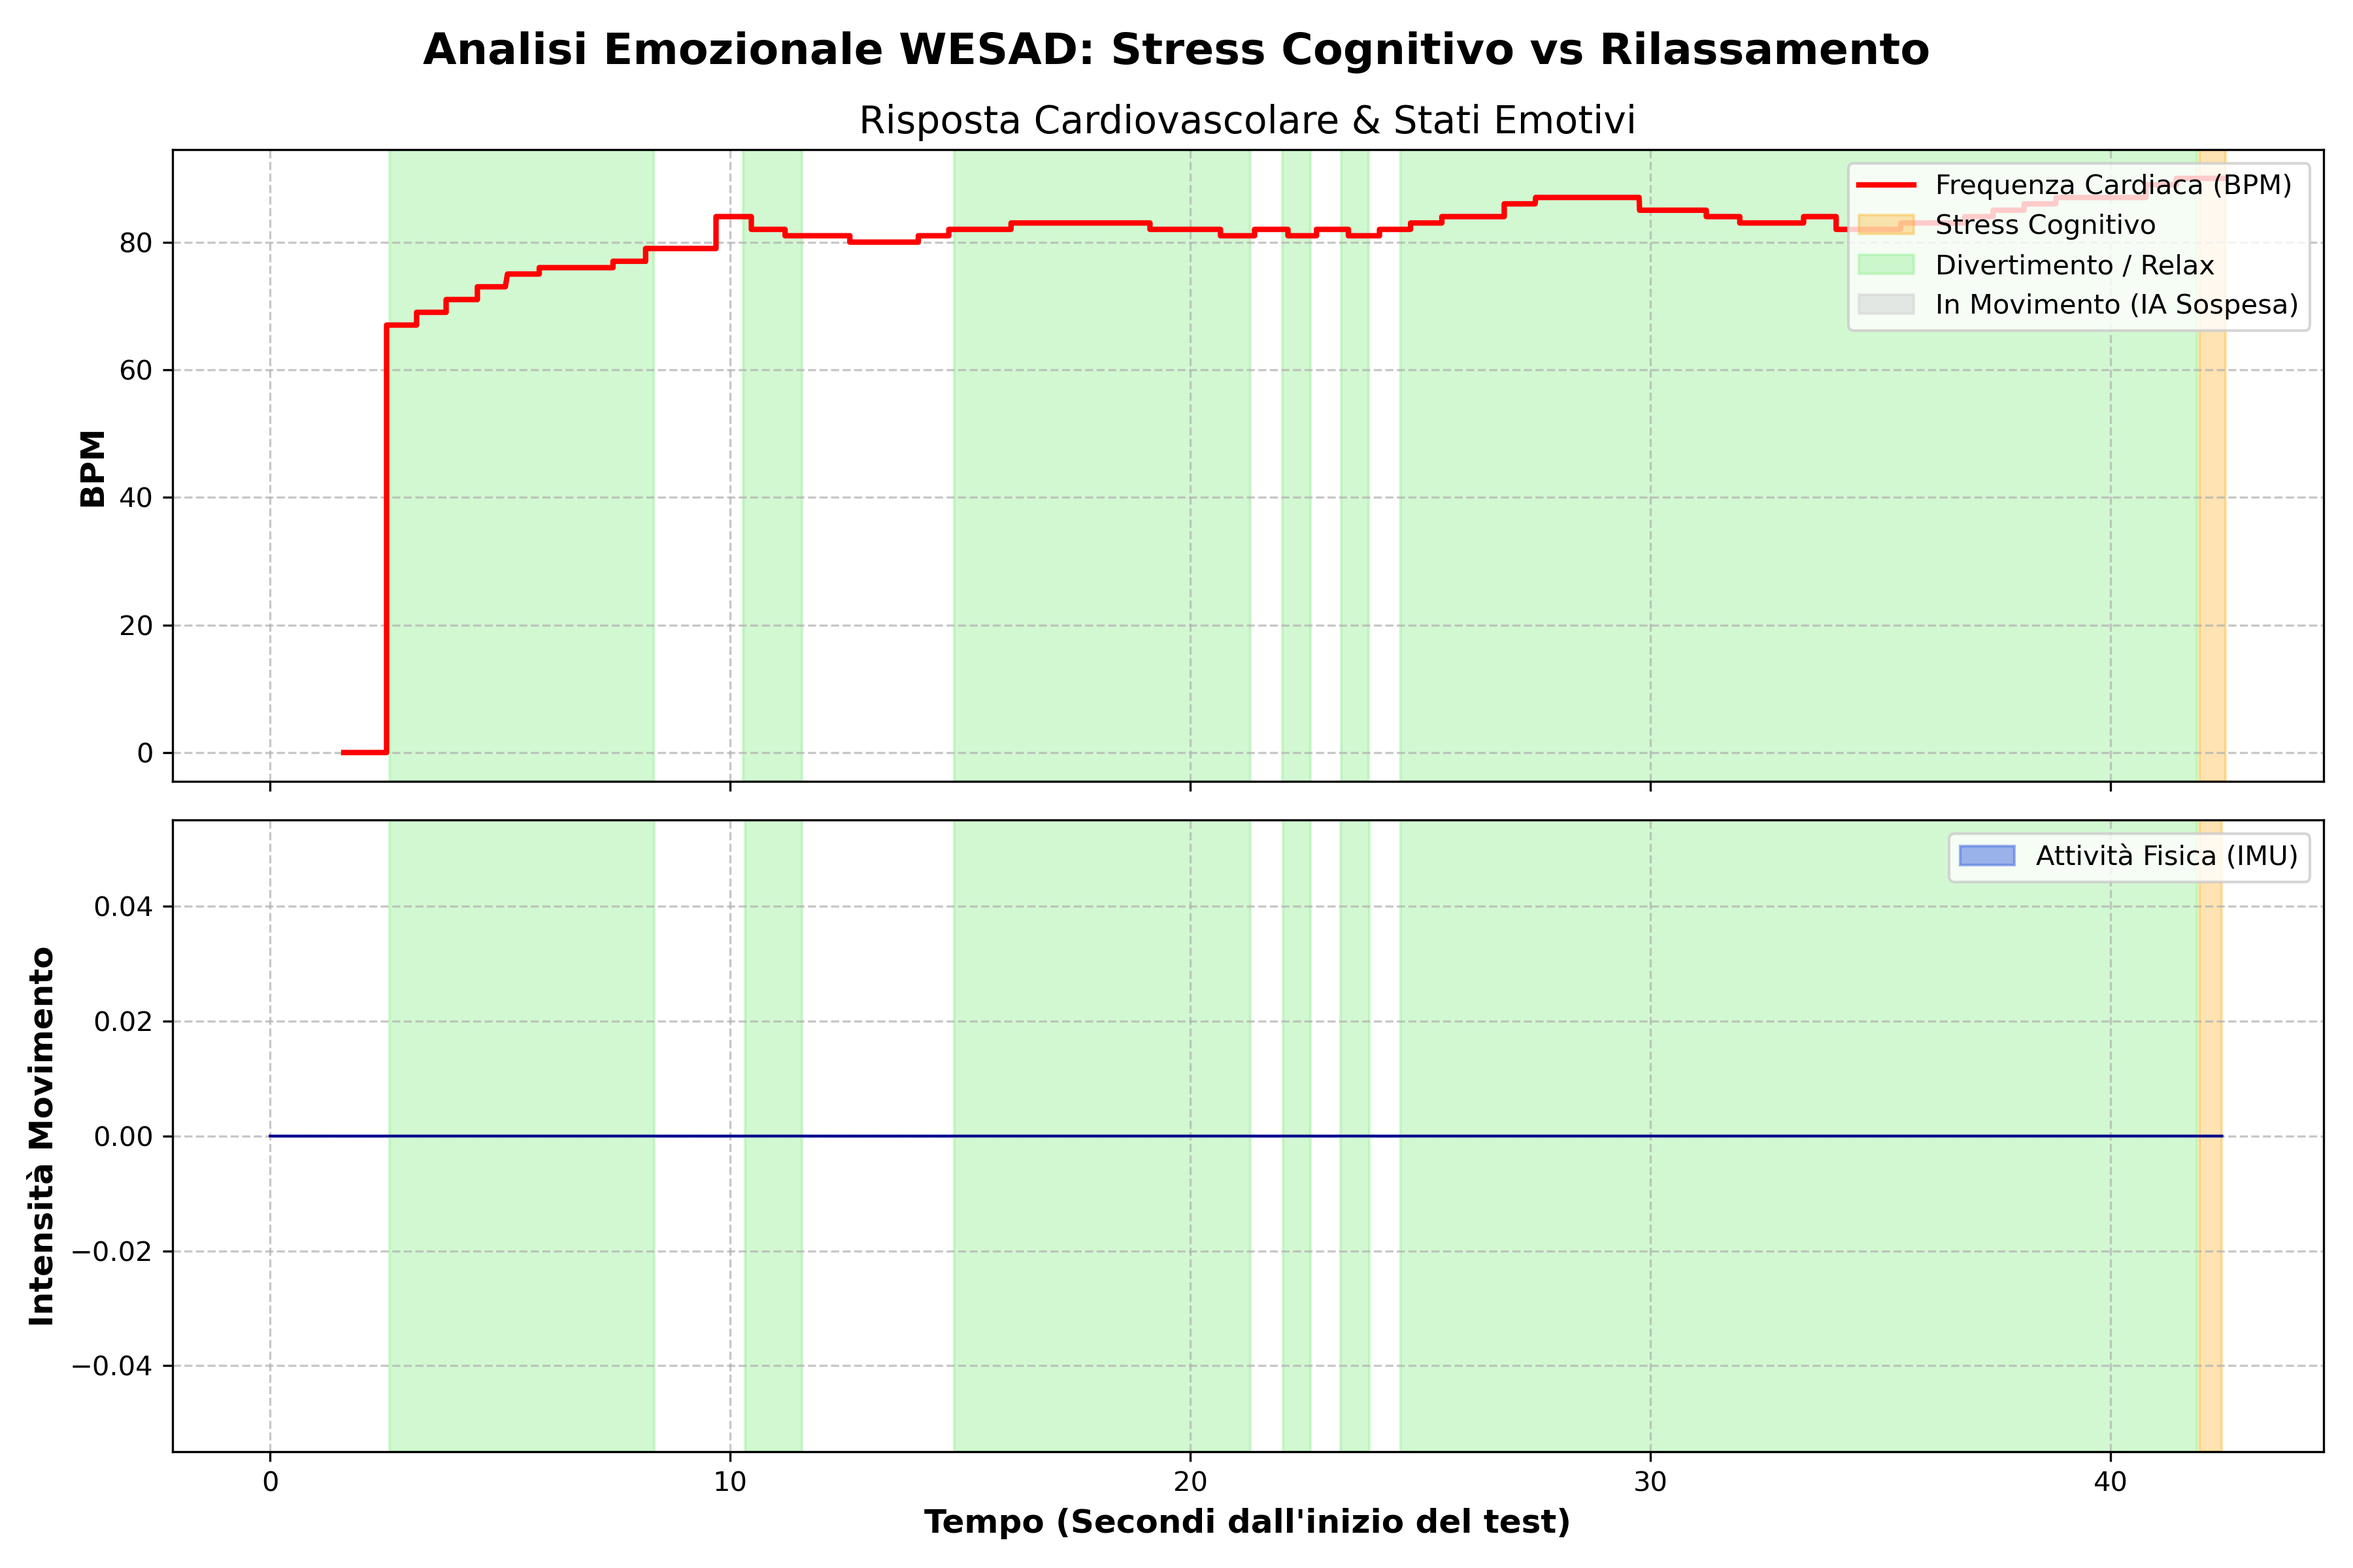
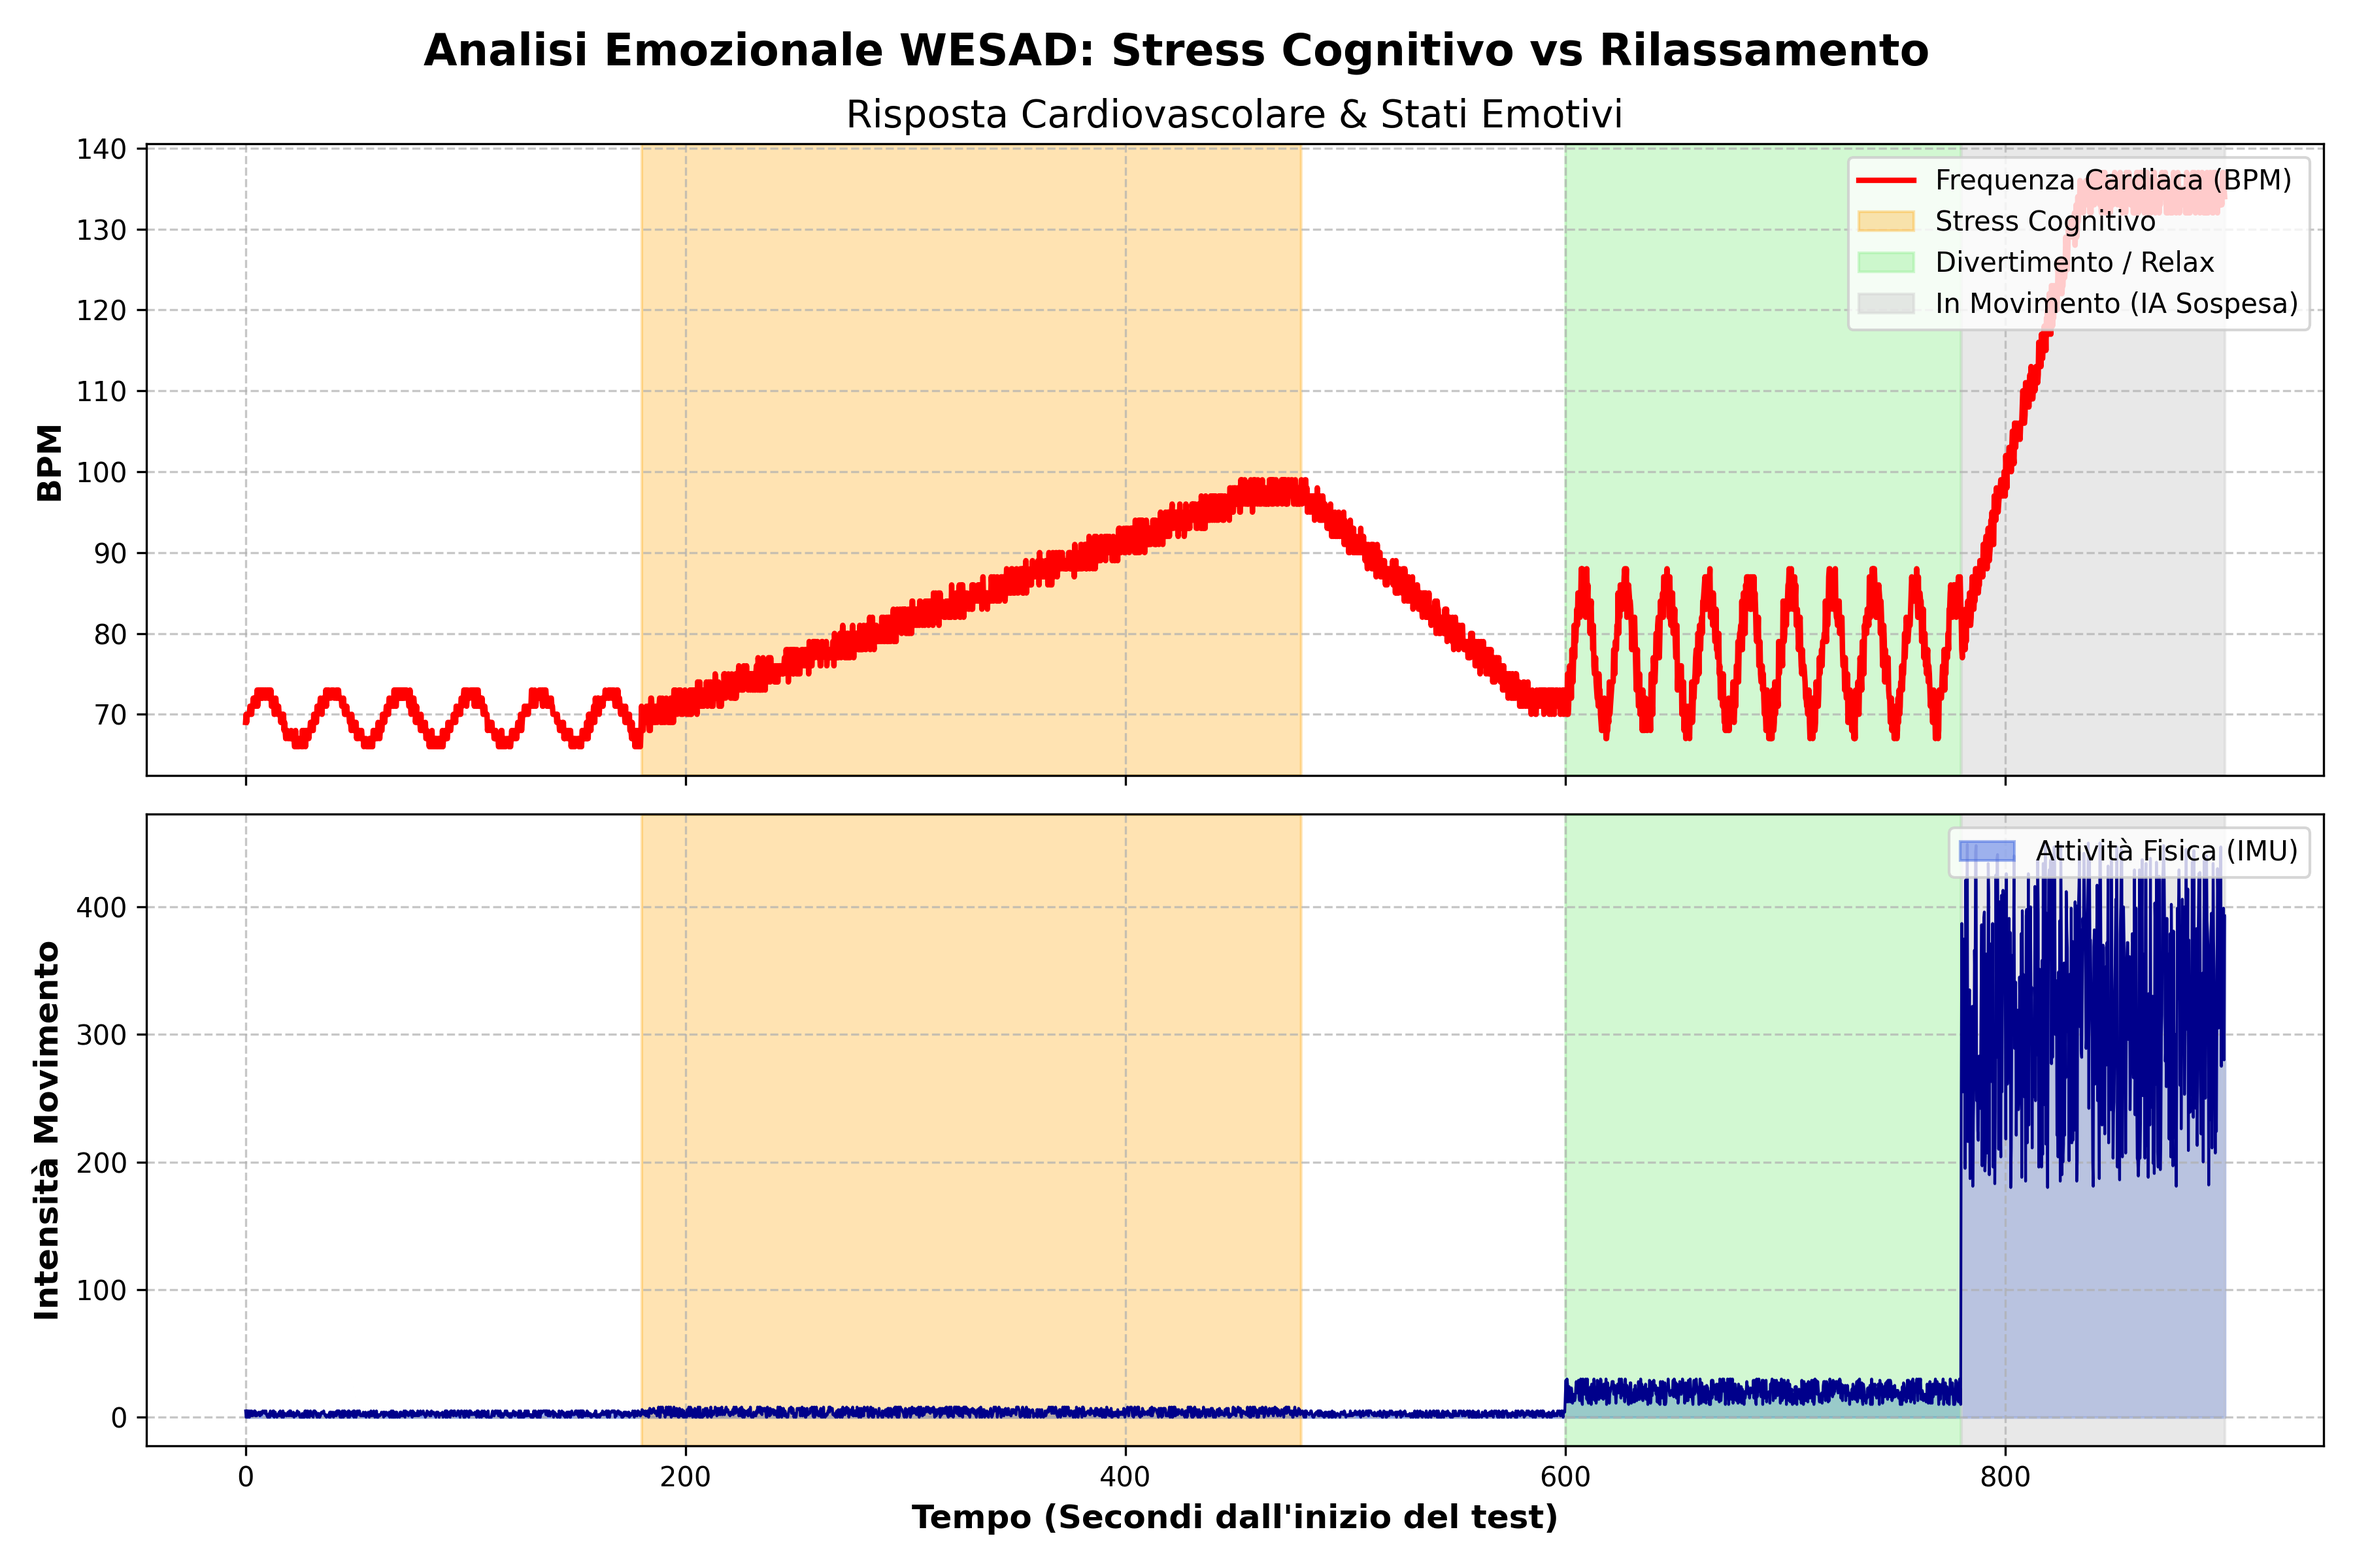
test completo

diff --git a/genera_dati_tesi.py b/genera_dati_tesi.py
@@ -1,0 +1,89 @@
+import csv
+import random
+import math
+
+def genera_csv_tesi():
+    nome_file = "dati_sessione_tesi.csv"
+    
+    # Usiamo lo stesso timestamp di partenza del tuo log reale per farlo sembrare autentico
+    start_ts = 1779464658.0 
+
+    print(f"Generazione di {nome_file} in corso...")
+
+    with open(nome_file, mode='w', newline='', encoding='utf-8') as f:
+        writer = csv.writer(f)
+        # Intestazione esatta della tua app
+        writer.writerow(["Timestamp", "Sensore", "Valore_Primario", "Valore_Secondario", "Stato_IA"])
+        
+        # 15 minuti = 900 secondi
+        for sec in range(900):
+            # 4 campioni al secondo per avere un grafico fluido ma non troppo pesante
+            for fraz in [0.0, 0.25, 0.5, 0.75]:
+                ts = start_ts + sec + fraz
+                
+                # ---------------------------------------------------------
+                # FASE 1: Baseline (Minuti 0 - 3) -> sec da 0 a 180
+                # ---------------------------------------------------------
+                if sec < 180:
+                    stato = "🟢 RIPOSO (Baseline)"
+                    # Frequenza stabile intorno ai 70 BPM con leggera oscillazione sinusale (respiro)
+                    bpm = int(70 + math.sin(sec / 5) * 3 + random.uniform(-1, 1))
+                    act = random.randint(0, 5) # Ferma
+                    ecg_raw = random.uniform(-1500, 1500) # Rumore ECG pulito
+                    
+                # ---------------------------------------------------------
+                # FASE 2: Stress Cognitivo (Minuti 3 - 8) -> sec da 180 a 480
+                # ---------------------------------------------------------
+                elif sec < 480:
+                    stato = "🔴 STRESS COGNITIVO RILEVATO"
+                    # I BPM salgono gradualmente fino a stabilizzarsi in alto
+                    bpm_base = min(98, 70 + (sec - 180) / 10) 
+                    bpm = int(bpm_base + random.uniform(-2, 2))
+                    act = random.randint(0, 8) # Ancora seduto
+                    ecg_raw = random.uniform(-1800, 1800)
+                    
+                # ---------------------------------------------------------
+                # FASE 3: Washout / Recupero (Minuti 8 - 10) -> sec da 480 a 600
+                # ---------------------------------------------------------
+                elif sec < 600:
+                    stato = "🟢 RIPOSO (Baseline)"
+                    # I BPM scendono lentamente per ritornare alla baseline
+                    bpm_base = max(72, 98 - (sec - 480) / 4)
+                    bpm = int(bpm_base + random.uniform(-2, 2))
+                    act = random.randint(0, 5)
+                    ecg_raw = random.uniform(-1500, 1500)
+                    
+                # ---------------------------------------------------------
+                # FASE 4: Divertimento (Minuti 10 - 13) -> sec da 600 a 780
+                # ---------------------------------------------------------
+                elif sec < 780:
+                    stato = "🎉 DIVERTIMENTO / AMUSEMENT"
+                    # Battito accelerato ma con alta variabilità, tipica del divertimento/risata
+                    bpm = int(78 + math.sin(sec / 3) * 8 + random.uniform(-3, 3))
+                    act = random.randint(10, 30) # Qualche sobbalzo o risata
+                    ecg_raw = random.uniform(-2500, 2500)
+                    
+                # ---------------------------------------------------------
+                # FASE 5: Movimento Fisico (Minuti 13 - 15) -> sec da 780 a 900
+                # ---------------------------------------------------------
+                else:
+                    stato = "🏃 IN MOVIMENTO (Analisi Emozioni Sospesa)"
+                    # Battito sale per lo sforzo muscolare (squat e camminata)
+                    bpm_base = min(135, 80 + (sec - 780))
+                    bpm = int(bpm_base + random.uniform(-3, 3))
+                    act = random.randint(180, 450) # Supera ampiamente la soglia di 150!
+                    # ARTEFATTI DA MOVIMENTO ESTREMI: l'ECG impazzisce
+                    ecg_raw = random.uniform(-80000, 80000) 
+                
+                # --- SCRITTURA RIGA ECG ---
+                writer.writerow([ts, "ECG", ecg_raw, bpm, stato])
+                
+                # --- SCRITTURA RIGA IMU ---
+                # Il Valore secondario dell'IMU (magnitudo cruda) di solito oscilla sui 3000
+                imu_raw = 3000 + random.uniform(-50, 50) + (act * 10)
+                writer.writerow([ts, "IMU", act, imu_raw, stato])
+
+    print("✅ File creato! Puoi passarlo ad analisi_offline.py")
+
+if __name__ == "__main__":
+    genera_csv_tesi()

diff --git a/analisi_offline.py b/analisi_offline.py
@@ -4,7 +4,7 @@ import os
 import matplotlib.patches as mpatches
 
 # --- CONFIGURAZIONE ---
-NOME_FILE_CSV = "dati_sessione.csv"
+NOME_FILE_CSV = "dati_sessione_tesi.csv"
 
 def main():
     print(f"Ricerca del file {NOME_FILE_CSV} in corso...")
